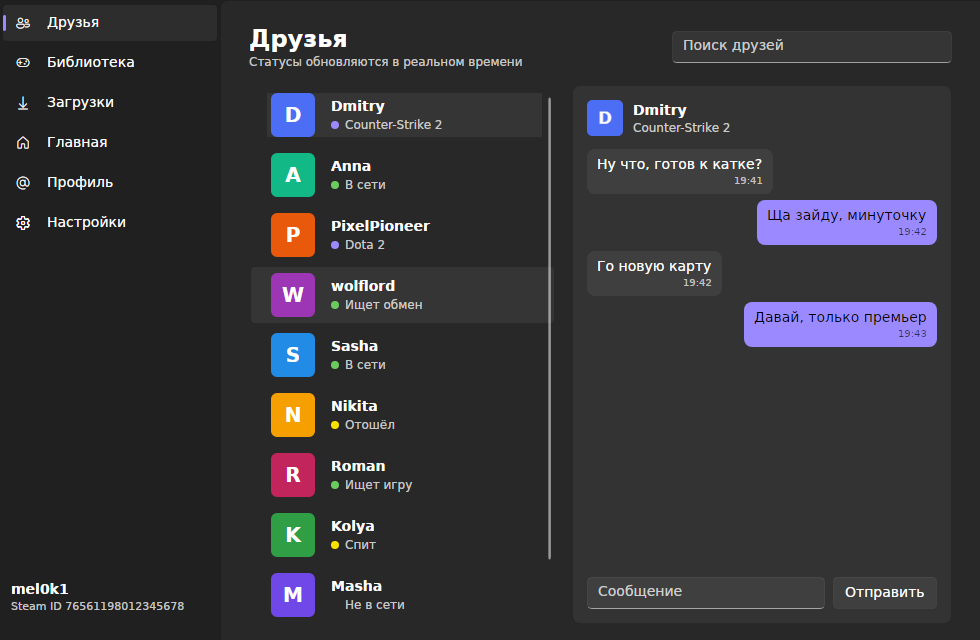
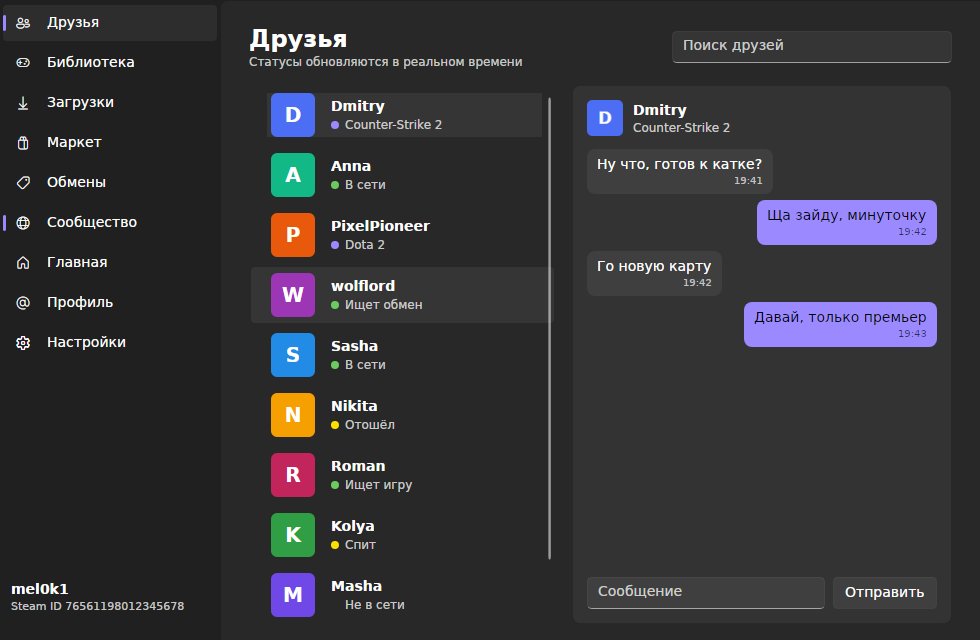
refresh screenshots and readme

diff --git a/tools/Screenshots/Program.cs b/tools/Screenshots/Program.cs
@@ -117,15 +117,24 @@ internal static class Program
             .AddSingleton<ManifestStore>()
             .AddSingleton<SessionStore>()
             .AddSingleton<SteamSession>()
+            .AddSingleton<SteamWebApi>(sp => new SteamWebApi(() =>
+                sp.GetRequiredService<SteamSession>().GetWebIdentityAsync()))
             .AddSingleton<AvatarCache>()
             .AddSingleton<AppIconCache>()
+            .AddSingleton<ItemIconCache>()
             .AddSingleton<ThemeService>()
+            .AddSingleton<MarketService>()
+            .AddSingleton<TradeService>()
+            .AddSingleton<CommunityService>()
             .AddSingleton<LogonViewModel>()
             .AddSingleton<MainViewModel>()
             .AddSingleton<FriendsViewModel>()
             .AddSingleton<HomeViewModel>()
             .AddSingleton<LibraryViewModel>()
             .AddSingleton<DownloadViewModel>()
+            .AddSingleton<MarketViewModel>()
+            .AddSingleton<TradesViewModel>()
+            .AddSingleton<CommunityViewModel>()
             .AddSingleton<ProfileViewModel>()
             .AddSingleton<SettingsViewModel>()
             .BuildServiceProvider();
@@ -179,6 +188,9 @@ internal static class Program
         download.SpeedText = "42,7 МБ/с";
         download.StatusText = "r6/config/settings.ini";
         download.DestinationText = "/home/user/Miseria/games/1091500";
+
+        await BuildFakeTradesAsync(services, friends);
+        await Task.Delay(12000);
 
         home.Initialize(new AccountSnapshot("mel0k1", 76561198012345678, "RU", false));
 
@@ -234,6 +246,32 @@ internal static class Program
         await PumpAsync();
         await CaptureAsync(window, Path.Combine(outDir, "profile-dark.png"));
 
+        window.NavigateTo("market");
+        await WaitForMarketAsync(main.Market);
+
+        if (main.Market.Results.Count > 0)
+        {
+            main.Market.SelectedItem = main.Market.Results[0];
+
+            for (var attempt = 0; attempt < 3 && !main.Market.HasDetail; attempt++)
+            {
+                await Task.Delay(2000);
+                main.Market.SelectedItem = null;
+                main.Market.SelectedItem = main.Market.Results[0];
+            }
+        }
+
+        await Task.Delay(1500);
+        await CaptureAsync(window, Path.Combine(outDir, "market-dark.png"));
+
+        window.NavigateTo("trades");
+        await Task.Delay(2200);
+        await CaptureAsync(window, Path.Combine(outDir, "trades-dark.png"));
+
+        window.NavigateTo("community");
+        await Task.Delay(5000);
+        await CaptureAsync(window, Path.Combine(outDir, "community-dark.png"));
+
         theme.Apply(AppTheme.Kiwi);
         window.NavigateTo("friends");
         await PumpAsync();
@@ -250,6 +288,90 @@ internal static class Program
         await CaptureAsync(window, Path.Combine(outDir, "chat-dark.png"));
 
         window.Close();
+    }
+
+    private static async Task WaitForMarketAsync(MarketViewModel market)
+    {
+        for (var attempt = 0; attempt < 4 && market.Results.Count == 0; attempt++)
+        {
+            await Task.Delay(4000);
+
+            if (market.Results.Count > 0)
+                return;
+
+            await market.SearchCommand.ExecuteAsync(null);
+        }
+    }
+
+    private static async Task BuildFakeTradesAsync(IServiceProvider services, FriendsViewModel friends)
+    {
+        var trades = services.GetRequiredService<TradesViewModel>();
+        var marketService = services.GetRequiredService<MarketService>();
+        var icons = services.GetRequiredService<ItemIconCache>();
+
+        trades.SuppressAutoLoad();
+
+        var items = new List<MarketItemSnapshot>();
+
+        for (var attempt = 0; attempt < 3 && items.Count == 0; attempt++)
+        {
+            try
+            {
+                items.AddRange((await marketService.SearchAsync(730, string.Empty, 0, 10)).Items);
+            }
+            catch
+            {
+                await Task.Delay(2500);
+            }
+        }
+
+        var descriptions = new Dictionary<(uint AppId, long ClassId, long InstanceId), TradeDescriptionSnapshot>();
+
+        for (var i = 0; i < items.Count; i++)
+        {
+            descriptions[(730, i + 1, 0)] = new TradeDescriptionSnapshot(
+                730,
+                i + 1,
+                0,
+                items[i].Name,
+                i % 2 == 0 ? "Контейнер" : "Обычный предмет",
+                items[i].IconUrl,
+                null);
+        }
+
+        ulong PartnerId(int index) => 76561198000000000UL + (ulong)index;
+
+        TradeOfferSnapshot Snapshot(int index, TradeDirection direction, ulong partner, string message, bool mobile, int giveFrom, int receiveFrom)
+        {
+            TradeAssetSnapshot Asset(int slot) => new(730, slot + 1, 0, 1000 + slot);
+
+            return new TradeOfferSnapshot(
+                3314000000UL + (ulong)index,
+                partner,
+                direction == TradeDirection.Sent,
+                direction,
+                message,
+                DateTimeOffset.UtcNow.AddHours(-2 - index),
+                mobile,
+                [Asset(giveFrom), Asset(giveFrom + 1)],
+                [Asset(receiveFrom), Asset(receiveFrom + 1)]);
+        }
+
+        var first = new TradeOfferItem(
+            Snapshot(0, TradeDirection.Incoming, PartnerId(0), "Го обмен, у меня лишние кейсы после турнира", true, 0, 2),
+            icons,
+            descriptions);
+        first.SetPartner(friends.Friends.FirstOrDefault(f => f.SteamId == PartnerId(0)));
+
+        var second = new TradeOfferItem(
+            Snapshot(1, TradeDirection.Incoming, PartnerId(3), string.Empty, false, 4, 6),
+            icons,
+            descriptions);
+        second.SetPartner(friends.Friends.FirstOrDefault(f => f.SteamId == PartnerId(3)));
+
+        trades.Offers.Add(first);
+        trades.Offers.Add(second);
+        trades.StatusText = "Активных обменов: 2";
     }
 
     private static async Task Shot(Window window, string path)

diff --git a/README.md b/README.md
@@ -12,6 +12,9 @@ A minimal Steam client built on [SteamKit2](https://github.com/SteamRE/SteamKit)
 - Friends list with live presence, avatars and disk-cached images
 - Friend chat: messages, typing indicator, unread badges and server-side history
 - Profile page: avatar, persona name, status, country, summary, member since and Steam id
+- Marketplace through the Steam Web API: item search with app and currency filters, price overview (lowest, median, daily volume) and personal sell listings with buy orders
+- Trade offers through IEconService with item tiles from both sides, accept, decline and cancel through steamcommunity
+- Community page: game news for owned apps and featured store items (specials, top sellers, new releases)
 - Library of owned apps through PICS with names, types, icons, search, list and Steam-style capsule grid
 - Downloads through SteamContent: parallel chunk download from the Steam CDN with decryption, verification, progress and cancel
 - Branch picker for depot branches, password-protected betas unlock through the private beta PICS request
@@ -36,6 +39,14 @@ The refresh token and guard data are stored unencrypted in `~/.config/Miseria/se
 | --- | --- |
 | ![Profile page in the Dark theme](docs/screenshots/profile-dark.png) | ![Home dashboard](docs/screenshots/home-dark.png) |
 
+| Market (Dark) | Trade offers (Dark) |
+| --- | --- |
+| ![Market search and price overview in the Dark theme](docs/screenshots/market-dark.png) | ![Trade offers in the Dark theme](docs/screenshots/trades-dark.png) |
+
+| Community (Dark) | |
+| --- | --- |
+| ![Community news and featured store items](docs/screenshots/community-dark.png) | |
+
 ## Build
 
 Requires the .NET 10 SDK.
@@ -56,9 +67,9 @@ xvfb-run -a dotnet run --project tools/Screenshots -- docs/screenshots
 
 The long-term goal is a central hub client like Steam itself. Planned next:
 
-- Marketplace: listings, price history and orders through the Steam Web API (SteamKit2 has no market handler)
-- Trading platform: trade offers with inventory browsing
-- Community: profiles, groups and activity feed
+- Inventory browser with item context and market listing creation
+- Trade offer creation from the inventory
+- Workshop browsing, groups and the friends activity feed
 
 ## License
 
